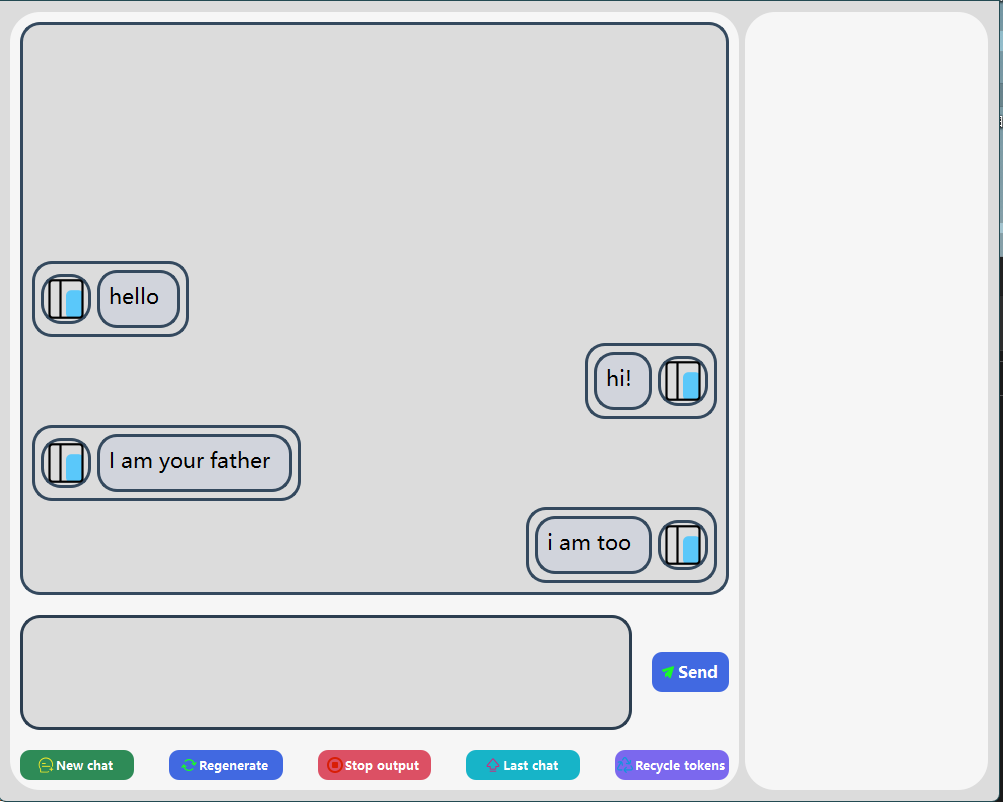
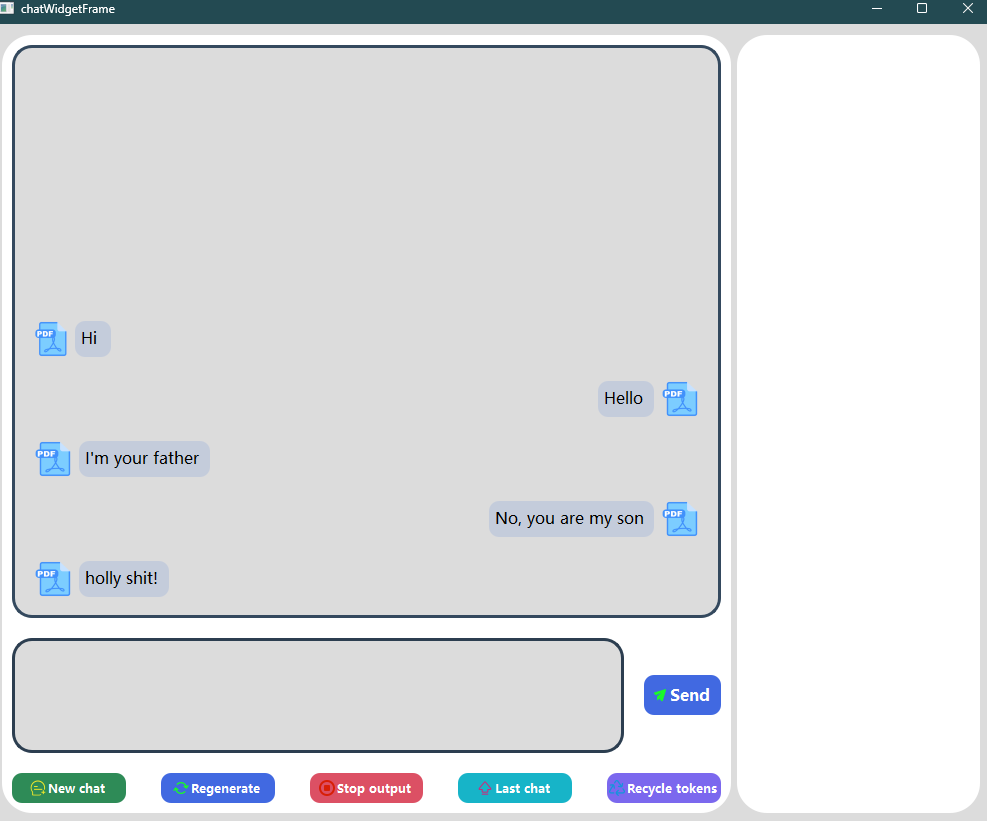
20240301

Changed region(s): [[0.0, 0.0, 1.0, 1.0]]

diff --git a/chat/chatWidget.py b/chat/chatWidget.py
@@ -16,7 +16,7 @@ class ChatWidget(ChatWidgetFrame):
         self.widgetlist = []  # 记录气泡
         self.text = ""                                              # 存储信息
         self.icon = QtGui.QPixmap(
-            "images/book.png")                          # 头像
+            "images/pdf.png")                          # 头像
         # 设置聊天窗口样式 隐藏滚动条
         self.leftScrollArea.setHorizontalScrollBarPolicy(Qt.ScrollBarAlwaysOff)
         self.leftScrollArea.setVerticalScrollBarPolicy(Qt.ScrollBarAsNeeded)
@@ -62,19 +62,19 @@ class ChatWidget(ChatWidgetFrame):
 
     def reviseBubbleLenth(self):
         font = QFont()
-        font.setPointSize(16)
+        font.setPointSize(12)
         font.setFamily("微软雅黑")
         fm = QFontMetrics(font)
-        textWidth = fm.boundingRect(self.text).width() + 110
-        print(textWidth)
+        textWidth = fm.boundingRect(self.text).width() + 83
+
         if self.sum != 0:
             if textWidth > 832:  # 宽度上限
                 textWidth = int(
-                    self.textBrowser.document().size().width())+100  # 固定宽度
+                    self.textBrowser.document().size().width())+83  # 固定宽度
             self.messageWidget.setMinimumSize(textWidth, int(
-                self.textBrowser.document().size().height()) + 40)  # 规定气泡大小
+                self.textBrowser.document().size().height()) + 25)  # 规定气泡大小
             self.messageWidget.setMaximumSize(textWidth, int(
-                self.textBrowser.document().size().height()) + 40)  # 规定气泡大小
+                self.textBrowser.document().size().height()) + 25)  # 规定气泡大小
             self.leftScrollArea.verticalScrollBar().setValue(10)
 
     # 窗口滚动到最底部
@@ -89,24 +89,27 @@ class ChatWidget(ChatWidgetFrame):
 
         self.messageWidget = QtWidgets.QWidget(self.scrollAreaWidgetContents)
         self.messageWidget.setLayoutDirection(dir)
+        self.messageWidget.setStyleSheet("""border: 0px;""")
 
         self.messageHorizontalLayout = QtWidgets.QHBoxLayout(
             self.messageWidget)
 
         self.headLabel = QtWidgets.QLabel(self.messageWidget)
-        self.headLabel.setMaximumSize(QtCore.QSize(50, 50))
+        self.headLabel.setMaximumSize(QtCore.QSize(40, 40))
         self.headLabel.setText("")
         self.headLabel.setPixmap(ico)
         self.headLabel.setScaledContents(True)
+        self.headLabel.setStyleSheet("""border:0px solid #34495e;""")
 
         self.messageHorizontalLayout.addWidget(self.headLabel)
 
         self.textBrowser = QtWidgets.QTextBrowser(self.messageWidget)
         self.textBrowser.setLayoutDirection(QtCore.Qt.LeftToRight)
         self.textBrowser.setStyleSheet("""
-                                        padding:5px;
-                                        background-color: rgba(71,121,214,20);
-                                        font: 16pt '微软雅黑';
+                                        padding:2px;
+                                        background-color: rgba(71,121,214,40);
+                                        border-radius: 10px;
+                                        font: 12pt '微软雅黑';
                                        """)
         self.textBrowser.setText(text)
         self.textBrowser.setMinimumSize(QtCore.QSize(0, 0))
